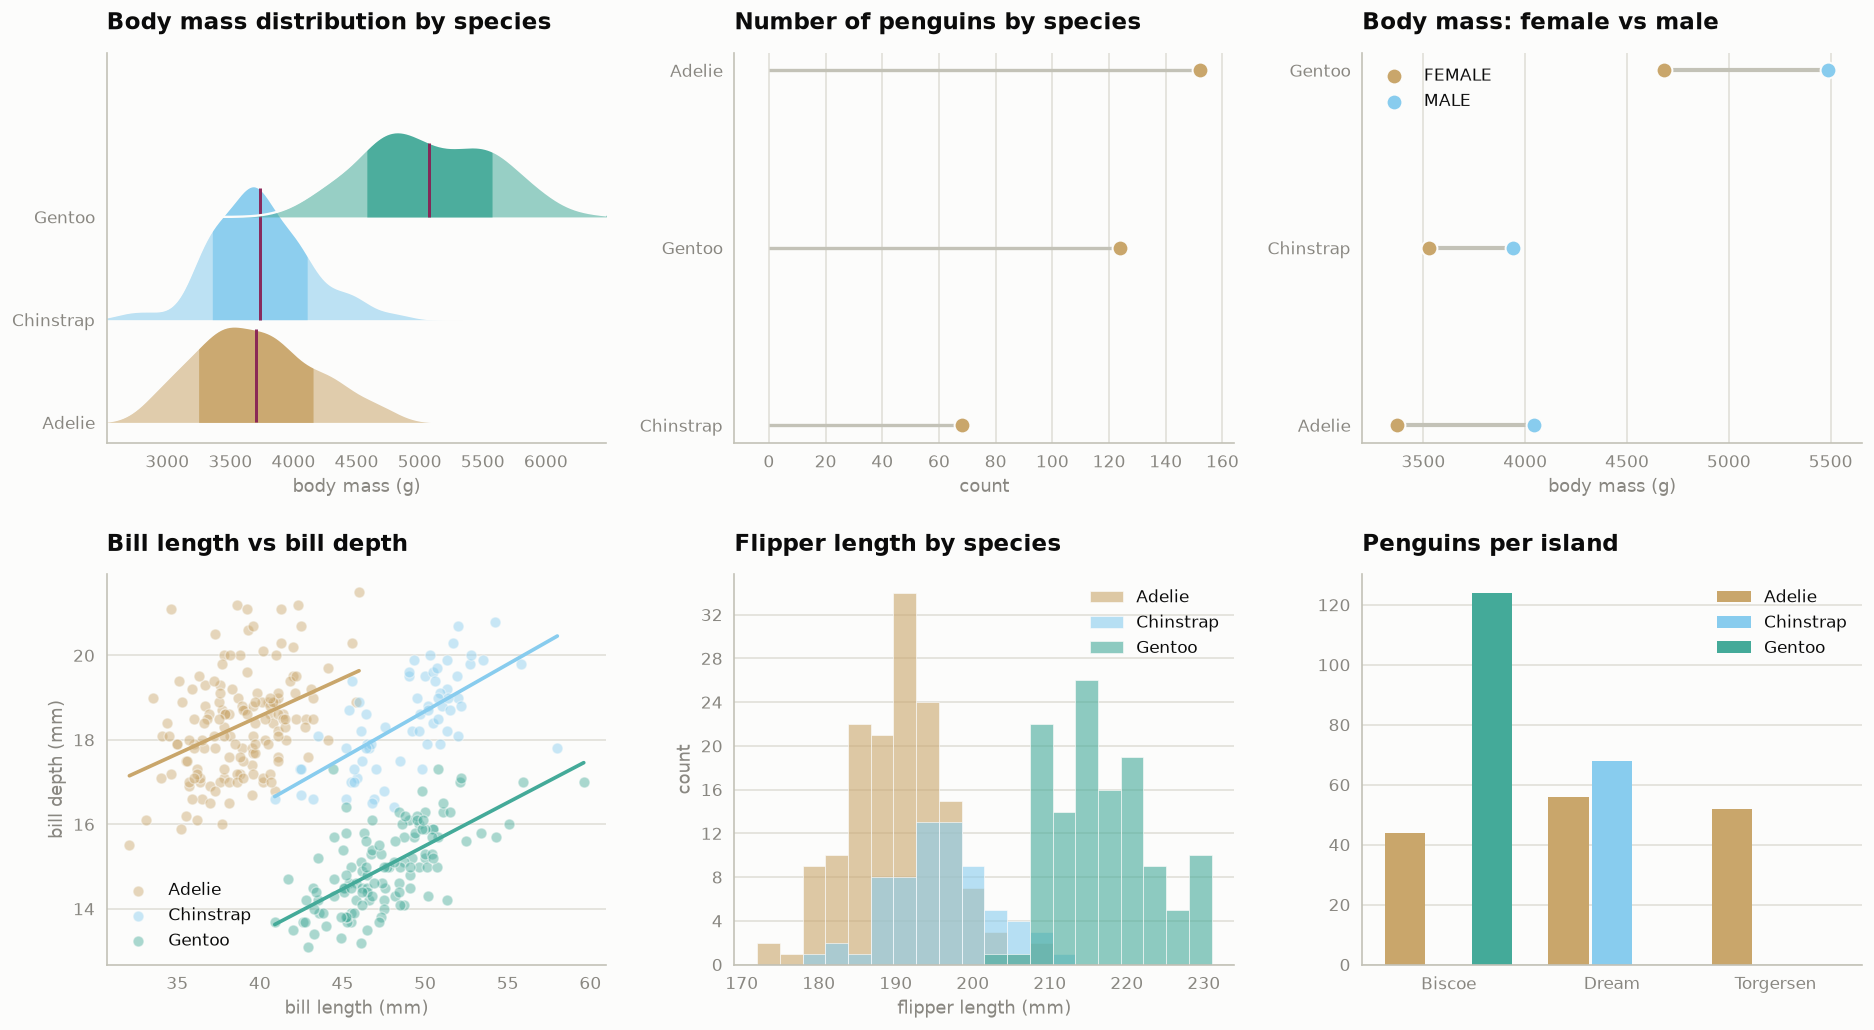
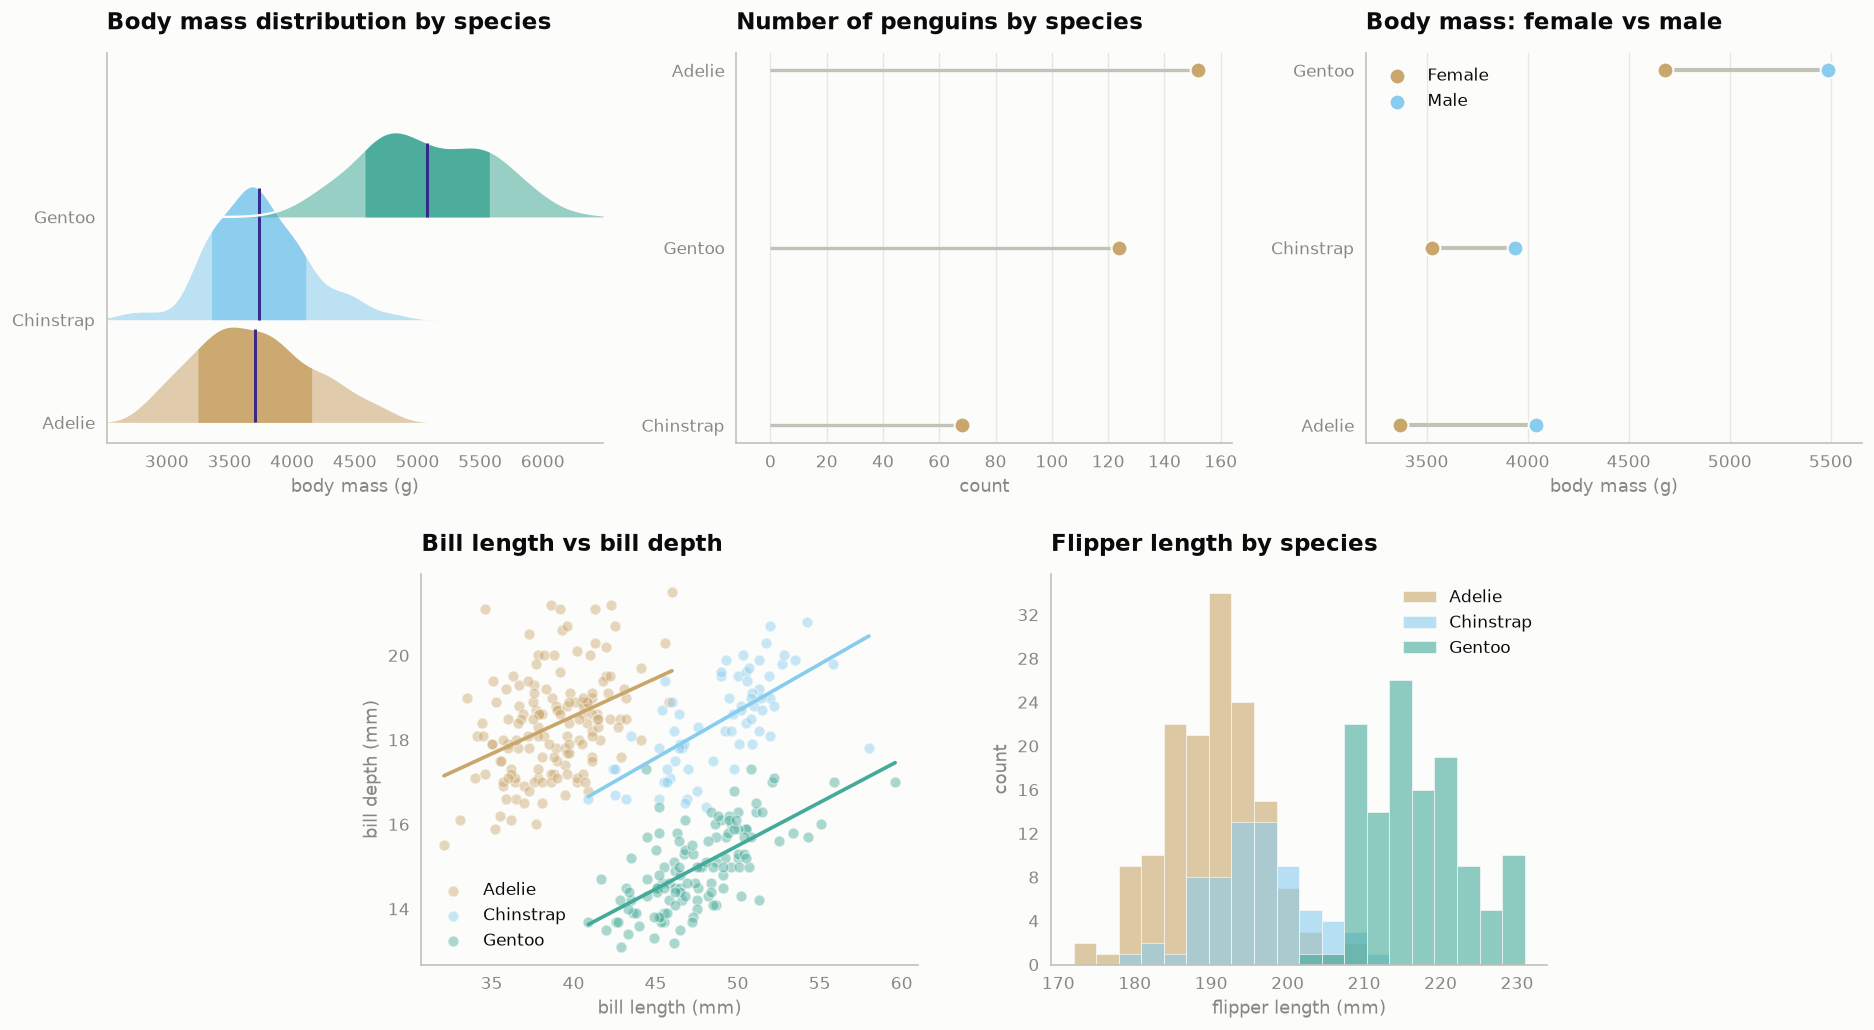
Trim library to the five gallery charts and refine styling
Slim simple_eda down to the charts the penguins gallery actually uses and
tidy the presentation:

- Remove the unused/removed charts: line, barh, and bar (with its
  "penguins per island" panel), updating exports, README and docstrings.
  core.py is now 222 code-only lines.
- Re-lay-out the gallery as five panels (three on top, two centred below).
- Use sentence-case "Female"/"Male" legend labels on the dumbbell.
- Drop gridlines everywhere except a faint x-grid on the lollipop and
  dumbbell, where they aid value reading.
- Recolour the ridgeline centre marker to the palette's indigo.

Claude-Session: https://claude.ai/code/session_011z8vY9Dm6rRXsFqaSvsfSk

diff --git a/src/simple_eda/core.py b/src/simple_eda/core.py
@@ -13,7 +13,7 @@ import matplotlib.ticker as mticker
 import numpy as np  # ships with pandas; no new dependency
 import pandas as pd
 
-__all__ = ["set_theme", "PALETTE", "line", "bar", "barh", "scatter", "hist",
+__all__ = ["set_theme", "PALETTE", "scatter", "hist",
            "lollipop", "dumbbell", "ridgeline"]
 
 # Categorical palette (assigned in fixed order). The first three — tan, light
@@ -94,49 +94,6 @@ def _as_frame(data):
     return data
 
 
-def line(data, title=None, xlabel=None, ylabel=None, ax=None):
-    """Line chart. Each column of ``data`` becomes one series."""
-    df = _as_frame(data)
-    ax = _new_ax(ax)
-    for col in df.columns:
-        ax.plot(df.index, df[col], linewidth=2.0, label=str(col),
-                solid_capstyle="round", solid_joinstyle="round")
-    return _finish(ax, title, xlabel, ylabel, legend=df.shape[1] > 1)
-
-
-def bar(data, title=None, xlabel=None, ylabel=None, ax=None):
-    """Vertical bar chart. Multiple columns are drawn grouped side by side."""
-    df = _as_frame(data)
-    ax = _new_ax(ax)
-    n, x = df.shape[1], range(len(df.index))
-    width = 0.8 / n
-    for i, col in enumerate(df.columns):
-        offset = (i - (n - 1) / 2) * width
-        ax.bar([p + offset for p in x], df[col], width=width * 0.92,
-               label=str(col), color=PALETTE[i % len(PALETTE)])
-    ax.set_xticks(list(x))
-    ax.set_xticklabels([str(v) for v in df.index])
-    return _finish(ax, title, xlabel, ylabel, legend=n > 1)
-
-
-def barh(data, title=None, xlabel=None, ylabel=None, ax=None):
-    """Horizontal bar chart — best for ranked categories with long labels."""
-    df = _as_frame(data)
-    ax = _new_ax(ax)
-    ax.grid(axis="y", visible=False)
-    ax.grid(axis="x", visible=True)
-    n, y = df.shape[1], range(len(df.index))
-    height = 0.8 / n
-    for i, col in enumerate(df.columns):
-        offset = (i - (n - 1) / 2) * height
-        ax.barh([p + offset for p in y], df[col], height=height * 0.92,
-                label=str(col), color=PALETTE[i % len(PALETTE)])
-    ax.set_yticks(list(y))
-    ax.set_yticklabels([str(v) for v in df.index])
-    ax.invert_yaxis()
-    return _finish(ax, title, xlabel, ylabel, legend=n > 1)
-
-
 def _trend_line(ax, xv, yv, color):
     """Draw a straight OLS best-fit line for ``xv`` vs ``yv`` onto ``ax``."""
     pair = pd.DataFrame({"x": xv, "y": yv}).dropna()
@@ -212,7 +169,7 @@ def _one_column(data):
 
 
 def lollipop(data, title=None, xlabel=None, ylabel=None, sort=True, ax=None):
-    """Ranked lollipop chart — a lighter, cleaner alternative to ``barh``.
+    """Ranked lollipop chart — a light, clean take on ranked categories.
 
     A thin stem runs from the baseline to a dot at each category's value.
     Accepts a Series or a one-column DataFrame; values are sorted descending
@@ -356,9 +313,9 @@ def ridgeline(data, value, group, center="median", band=None, title=None,
         cval = _center_value(v, center)
         if cval is not None:
             top = i + np.interp(cval, grid, densities[g]) * scale
-            # One consistent accent (wine) for every centre marker — it flags a
-            # statistic, not a category, and contrasts with all the ridge fills.
-            ax.vlines(cval, i, top, color=PALETTE[7], alpha=0.95, linewidth=1.8,
+            # One consistent accent (indigo) for every centre marker — it flags
+            # a statistic, not a category, and contrasts with all ridge fills.
+            ax.vlines(cval, i, top, color=PALETTE[4], alpha=0.95, linewidth=1.8,
                       zorder=i + 0.5)
     ax.set_ylim(-0.2, len(order) - 1 + overlap + 0.3)
     ax.margins(x=0)

diff --git a/examples/example.py b/examples/example.py
@@ -1,7 +1,7 @@
 """Demo: simple_eda on the Palmer Penguins dataset, rendered to one gallery PNG.
 
 Shows off the three signature charts (ridgeline, lollipop, dumbbell) alongside
-the everyday ones (scatter, hist, bar), all driven straight from a DataFrame.
+scatter and hist, all driven straight from a DataFrame.
 Data: examples/penguins.csv (Palmer Penguins; Horst, Hill & Gorman, 2020).
 """
 
@@ -28,32 +28,40 @@ species_counts = penguins.groupby("species").size()
 sexed = penguins.dropna(subset=["sex"])
 mass_by_sex = (sexed.groupby(["species", "sex"])["body_mass_g"]
                .mean().unstack())[["FEMALE", "MALE"]]
+mass_by_sex.columns = ["Female", "Male"]   # tidy legend labels
 
-# species counts per island → grouped bars
-counts = (penguins.groupby(["island", "species"]).size()
-          .unstack(fill_value=0))
+# --- draw the gallery (3 charts on top, 2 centred below) -------------------
 
-# --- draw the gallery ------------------------------------------------------
-
-fig, axes = plt.subplots(2, 3, figsize=(16, 9))
+fig = plt.figure(figsize=(16, 9))
+gs = fig.add_gridspec(2, 6)
+ax_ridge = fig.add_subplot(gs[0, 0:2])
+ax_lolli = fig.add_subplot(gs[0, 2:4])
+ax_dumb = fig.add_subplot(gs[0, 4:6])
+ax_scat = fig.add_subplot(gs[1, 1:3])
+ax_hist = fig.add_subplot(gs[1, 3:5])
 
 cv.ridgeline(penguins, value="body_mass_g", group="species",
              center="mean", band="sd",
              title="Body mass distribution by species",
-             xlabel="body mass (g)", ax=axes[0, 0])
+             xlabel="body mass (g)", ax=ax_ridge)
 cv.lollipop(species_counts, title="Number of penguins by species",
-            xlabel="count", ax=axes[0, 1])
+            xlabel="count", ax=ax_lolli)
 cv.dumbbell(mass_by_sex, title="Body mass: female vs male",
-            xlabel="body mass (g)", ax=axes[0, 2])
+            xlabel="body mass (g)", ax=ax_dumb)
 sc = cv.scatter(penguins, "bill_length_mm", "bill_depth_mm", color="species",
                 trend=True, alpha=0.45, title="Bill length vs bill depth",
-                ax=axes[1, 0])
+                ax=ax_scat)
 sc.set_xlabel("bill length (mm)")
 sc.set_ylabel("bill depth (mm)")
 cv.hist(penguins, "flipper_length_mm", by="species",
         title="Flipper length by species",
-        xlabel="flipper length (mm)", ax=axes[1, 1])
-cv.bar(counts, title="Penguins per island", ax=axes[1, 2])
+        xlabel="flipper length (mm)", ax=ax_hist)
+
+for a in (ax_ridge, ax_lolli, ax_dumb, ax_scat, ax_hist):
+    a.grid(False)                    # strip every gridline
+for a in (ax_lolli, ax_dumb):        # faint x-grid back on the magnitude charts
+    a.set_axisbelow(True)
+    a.grid(axis="x", visible=True, color="#e7e6e0", linewidth=0.8)
 
 fig.set_facecolor("#fcfcfb")
 fig.tight_layout(pad=2.0)

diff --git a/src/simple_eda/__init__.py b/src/simple_eda/__init__.py
@@ -5,15 +5,12 @@ Import the whole toolkit and start plotting straight from a pandas object:
     import simple_eda as se
 
     se.set_theme()
-    se.line(df, title="Growth over time")
+    se.scatter(df, "x", "y", color="group", title="X vs Y")
 """
 
 from .core import (
     PALETTE,
     set_theme,
-    line,
-    bar,
-    barh,
     scatter,
     hist,
     lollipop,
@@ -26,9 +23,6 @@ __version__ = "0.2.0"
 __all__ = [
     "PALETTE",
     "set_theme",
-    "line",
-    "bar",
-    "barh",
     "scatter",
     "hist",
     "lollipop",

diff --git a/README.md b/README.md
@@ -1,8 +1,8 @@
 # simple-eda
 
 A tiny, modern charting library built on **matplotlib** and **pandas** — nothing
-else. The core is a single ~280-line module with a colorblind-safe palette and
-clean, chartjunk-free defaults. It gives you eight chart helpers straight from a
+else. The core is a single compact module with a colorblind-safe palette and
+clean, chartjunk-free defaults. It gives you five chart helpers straight from a
 DataFrame without the usual matplotlib boilerplate — including three you'd
 normally have to hand-build: **lollipop**, **dumbbell**, and **ridgeline**.
 
@@ -47,13 +47,10 @@ import simple_eda as se
 
 se.set_theme()   # call once to apply the modern look
 
-df = pd.DataFrame(
-    {"signups": [120, 145, 138, 172], "active": [90, 110, 121, 140]},
-    index=["Jan", "Feb", "Mar", "Apr"],
-)
+counts = pd.Series([152, 124, 68], index=["Adelie", "Gentoo", "Chinstrap"])
 
-ax = se.line(df, title="Growth over time")
-ax.figure.savefig("growth.png")
+ax = se.lollipop(counts, title="Penguins by species")
+ax.figure.savefig("counts.png")
 ```
 
 ## Functions
@@ -64,12 +61,9 @@ subplot. A legend is added automatically only when there is more than one series
 | Function | Purpose | Input |
 |----------|---------|-------|
 | `set_theme()` | Apply the modern default style globally | — |
-| `line(data, ...)` | Line chart; one line per column | DataFrame / Series |
-| `bar(data, ...)` | Grouped vertical bars | DataFrame / Series |
-| `barh(data, ...)` | Ranked horizontal bars | DataFrame / Series |
 | `scatter(data, x, y, color=None, trend=False, ...)` | Scatter, optionally split by a category; `trend=True` adds a per-group line of best fit | DataFrame |
 | `hist(data, column=None, by=None, bins=20, ...)` | Distribution of a column; `by=` overlays one translucent histogram per group | DataFrame / Series |
-| `lollipop(data, sort=True, ...)` | Ranked lollipop — a lighter `barh` | DataFrame / Series |
+| `lollipop(data, sort=True, ...)` | Ranked lollipop for categories | DataFrame / Series |
 | `dumbbell(data, sort=True, ...)` | Two dots + connector per row (A vs B) | 2-column DataFrame |
 | `ridgeline(data, value, group, center="median", band=None, overlap=1.3, ...)` | Overlapping distribution per group; `center` marks the mean/median, `band` shades ±1 SD or the IQR | DataFrame |
 
@@ -92,9 +86,9 @@ Tol's colorblind-safe *muted* hues as fallbacks for higher series counts.
 ## Example
 
 The gallery above is built entirely from the **Palmer Penguins** dataset
-(`examples/penguins.csv`) — ridgeline of body mass by species, a mean-flipper
-lollipop, a female-vs-male dumbbell, plus scatter, histogram and grouped bars.
-Run it end to end:
+(`examples/penguins.csv`) — a body-mass ridgeline, a species-count lollipop, a
+female-vs-male dumbbell, a bill-length-vs-depth scatter, and a flipper-length
+histogram. Run it end to end:
 
 ```bash
 python examples/example.py   # writes examples/gallery.png
